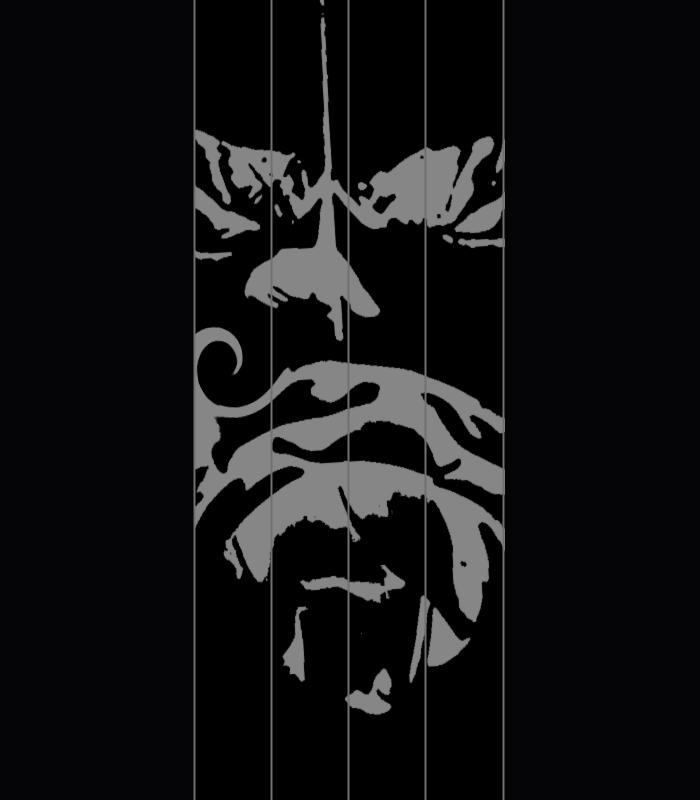
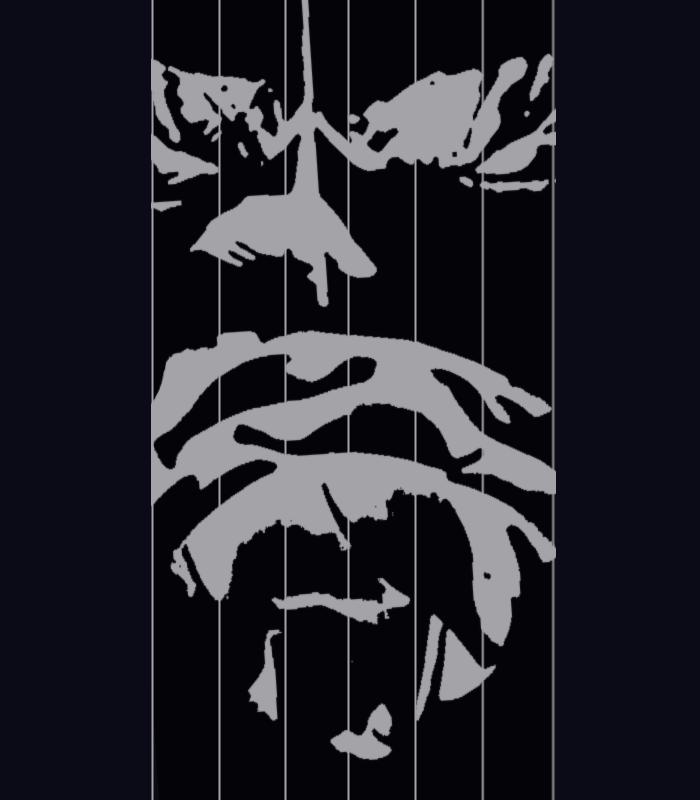
new bg

Changed region(s): [[0.21, 0.0, 0.81, 1.0]]

diff --git a/src/com/guitarhero/component/LeftColumn.java b/src/com/guitarhero/component/LeftColumn.java
@@ -14,14 +14,6 @@ public class LeftColumn {
 
     }
 
-    /*public static void changeSong(Song song) {
-        songName = song.getName();
-        artist = song.getArtist();
-        genre = song.getGenre().toString().replace("_", " ");
-        genre = genre.replace(genre.charAt(0), Character.toUpperCase(genre.charAt(0)));
-        highscore = song.getHighScore();
-        path = song.getFile();
-    }*/
 
     public static void createLeftColumn(JPanel bar) {
         bar.setLayout(new BoxLayout(bar, BoxLayout.Y_AXIS));
@@ -42,15 +34,7 @@ public class LeftColumn {
         bar.add(player);
         
         
-        
-        
-
-        /*Font font = songNameLabel.getFont().deriveFont(18.0f);
-        songNameLabel.setFont(font);
-        artistLabel.setFont(font);
-        genreLabel.setFont(font);
-        highScoreLabel.setFont(font);*/
-        
+     
     }
 
 

diff --git a/src/com/guitarhero/component/SongList.java b/src/com/guitarhero/component/SongList.java
@@ -32,7 +32,7 @@ public class SongList {
 
     public static void createSongList(JPanel list) {
     	list.setLayout(new BoxLayout(list, BoxLayout.Y_AXIS));
-    	list.setAlignmentX(Component.LEFT_ALIGNMENT);
+    	list.setAlignmentX(Component.CENTER_ALIGNMENT);
         list.setPreferredSize(new Dimension(300,600));
         list.setBorder(new EmptyBorder(20,20,20,20));
         list.setBackground(Color.GRAY);
@@ -40,6 +40,8 @@ public class SongList {
         test.setActionCommand("Ransom");
         test.addActionListener(new SongButtonListener());
         list.add(test);
+        
+        //Add jlist here
         
         //lscroller = new JScrollPane(list);
         //lscroller.setPreferredSize(new Dimension(300,300));
